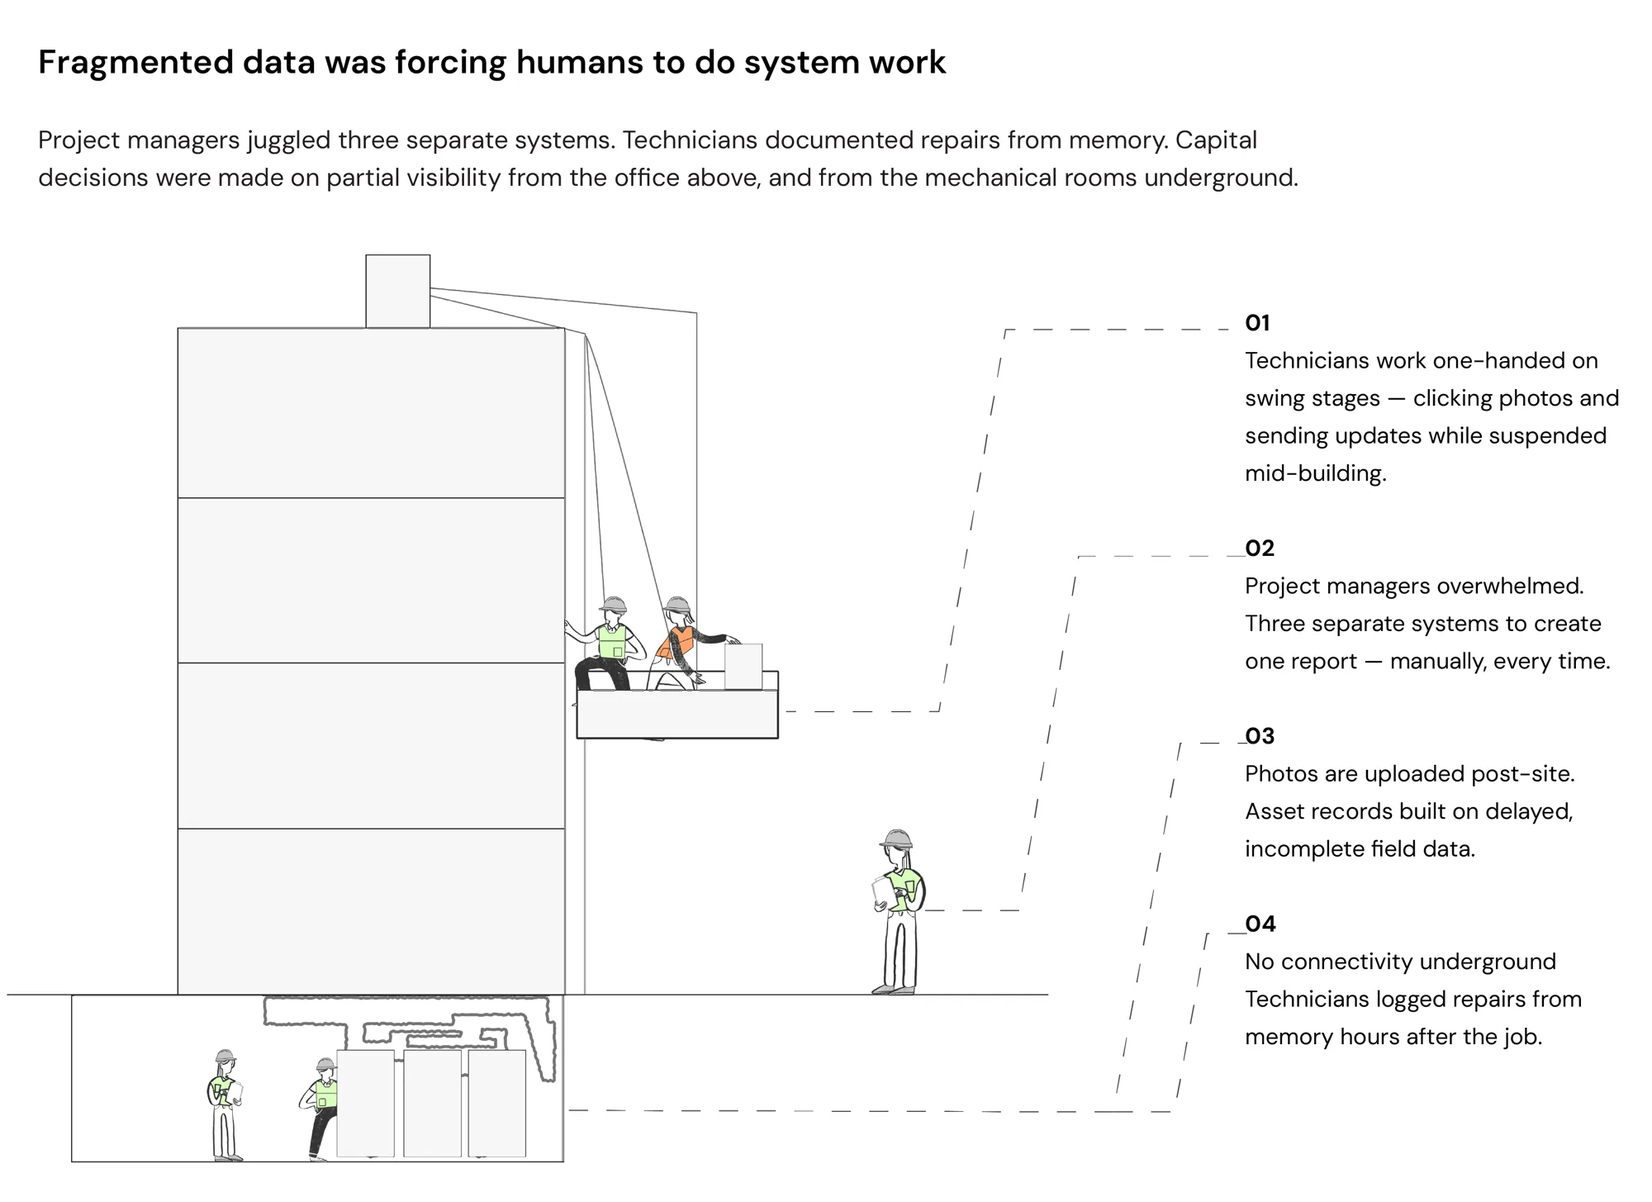
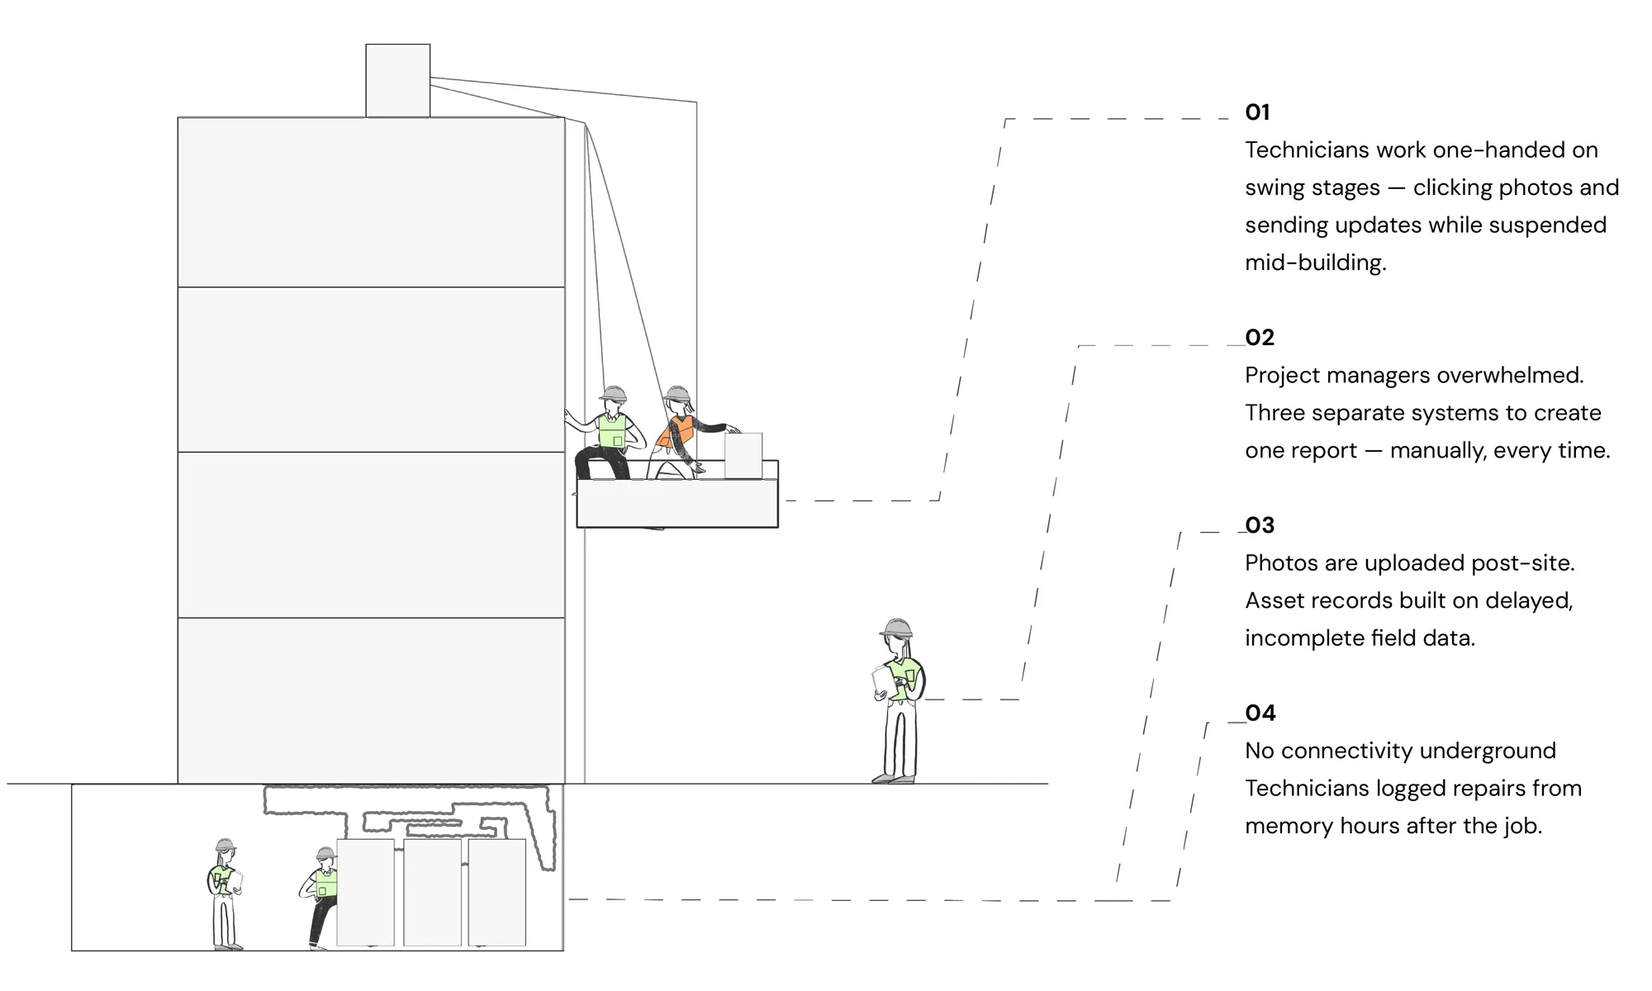
Rewrite LAT Solution narrative per review feedback, trim prose, crop duplicated-text diagram
- Reframe around "AI wasn't the product, trustworthy decision-making was": new bridge
  paragraph, Solution headline, simplified over-strategized language (trust architecture,
  system of coordination, financial intelligence, Platform Thinking)
- Cut Impact metrics from 7 to 3 hero stats; relocate the rest as supporting evidence in
  Decision 01/02 and Tradeoffs
- Replace unsupported claims ("acted immediately") with the real fact and measured
  evidence (61%->19% override rate, -12% emergency repairs) in Decision 02 and the
  LatAlertToggle component
- Give Decision 02 more visual weight with a pull-quote; restyle "Model behavior" into a
  stylized callout and tighten its copy
- Split "Also shipped" into "Supporting workflows"; trim Constraints/Tradeoffs prose
- Crop the duplicated title/body text baked into the "fragmented data" diagram image

diff --git a/app/work/[slug]/page.tsx b/app/work/[slug]/page.tsx
@@ -598,7 +598,7 @@ const caseStudies = {
   lat: {
     title: 'LAT',
     subtitle: 'Lifecycle Assessment Tracker',
-    description: 'Turning fragmented campus maintenance into a trusted financial decision system',
+    description: 'Designing an AI-assisted maintenance system people could trust with $180K decisions',
     brief: {
       context: 'Lead designer for an ML platform helping a university manage 60–80+ buildings across three campuses.',
       constraint: 'Legacy CMMS/ERP couldn\'t be disrupted, data had hard integrity boundaries, and capital decisions were political.',
@@ -618,7 +618,7 @@ const caseStudies = {
 
 <p style="margin-top: 28px;">A technician underground can't access repair history. A manager stitches spreadsheets before planning. Leadership decides on partial data.</p>
 
-<img loading="lazy" decoding="async" width="2000" height="1455" src="/images/lat/User%20Issues.webp" alt="User Issues" style="width: 100%; height: auto; border-radius: 0px; margin-top: 40px; margin-bottom: 40px; display: block;" />
+<img loading="lazy" decoding="async" width="2000" height="1200" src="/images/lat/User%20Issues.webp" alt="Diagram of fragmented maintenance data flow" style="width: 100%; height: auto; border-radius: 0px; margin-top: 40px; margin-bottom: 40px; display: block;" />
 
 <div style="display: flex; align-items: flex-start; gap: 24px; margin-top: 8px; margin-bottom: 8px; flex-wrap: wrap;">
   <div style="flex: 1; min-width: 250px; position: relative;">
@@ -645,7 +645,7 @@ const caseStudies = {
   <div style="font-size: 14px; color: #6B7280; margin-top: 10px;">vs. UW IT's 70% threshold. Data accuracy rose 70%→95% and cost reduction is projected at 25% over the same lifecycle linkage — directly observed adoption and accuracy, projected cost figure.</div>
 </div>
 
-<p><span style="font-weight: 600;">Product</span><br/>An ML platform helping a Pacific Northwest university manage 60–80+ buildings — a modular API layer alongside their legacy CMMS/ERP, turning fragmented data into financial intelligence.</p>
+<p><span style="font-weight: 600;">Product</span><br/>A maintenance platform helping a Pacific Northwest university manage 60–80+ buildings — a modular API layer alongside their legacy CMMS/ERP, turning fragmented data into decisions people could act on.</p>
 
 <p style="margin-top: 28px;"><span style="font-weight: 600;">My role.</span> Product vision, workflows, and the design system — aligning technicians, managers, accountants, and executives.</p>
 
@@ -662,8 +662,8 @@ const caseStudies = {
 
 <h4 class="case-study-subhead">Impact</h4>
 
-<div class="metrics-grid metrics-grid--dark" style="margin-bottom: 32px;">
-  <div class="metrics-cell metrics-cell--hero">
+<div class="metrics-grid metrics-grid--dark" style="margin-bottom: 20px;">
+  <div class="metrics-cell">
     <div class="metrics-num">95%</div>
     <div class="metrics-label">Pilot adoption, vs. UW IT's 70% threshold for keeping a tool live</div>
     <div style="font-family: ui-monospace, SFMono-Regular, Menlo, monospace; font-size: 10px; font-weight: 700; letter-spacing: 0.06em; text-transform: uppercase; color: #4ADE80; margin-top: 10px;">Observed</div>
@@ -678,29 +678,9 @@ const caseStudies = {
     <div class="metrics-label">Reporting time per ticket, pre/post offline-first workflow</div>
     <div style="font-family: ui-monospace, SFMono-Regular, Menlo, monospace; font-size: 10px; font-weight: 700; letter-spacing: 0.06em; text-transform: uppercase; color: #4ADE80; margin-top: 10px;">Observed</div>
   </div>
-  <div class="metrics-cell">
-    <div class="metrics-num">−36%</div>
-    <div class="metrics-label">Budget revisions vs. prior year</div>
-    <div style="font-family: ui-monospace, SFMono-Regular, Menlo, monospace; font-size: 10px; font-weight: 700; letter-spacing: 0.06em; text-transform: uppercase; color: #60A5FA; margin-top: 10px;">Measured</div>
-  </div>
-  <div class="metrics-cell">
-    <div class="metrics-num">−12%</div>
-    <div class="metrics-label">Emergency repair incidents during pilot</div>
-    <div style="font-family: ui-monospace, SFMono-Regular, Menlo, monospace; font-size: 10px; font-weight: 700; letter-spacing: 0.06em; text-transform: uppercase; color: #60A5FA; margin-top: 10px;">Measured</div>
-  </div>
-  <div class="metrics-cell">
-    <div class="metrics-num">−60%</div>
-    <div class="metrics-label">Planning time vs. prior year</div>
-    <div style="font-family: ui-monospace, SFMono-Regular, Menlo, monospace; font-size: 10px; font-weight: 700; letter-spacing: 0.06em; text-transform: uppercase; color: #60A5FA; margin-top: 10px;">Measured</div>
-  </div>
-  <div class="metrics-cell">
-    <div class="metrics-num">−25% projected</div>
-    <div class="metrics-label">Unexpected maintenance costs, lifecycle model forecast</div>
-    <div style="font-family: ui-monospace, SFMono-Regular, Menlo, monospace; font-size: 10px; font-weight: 700; letter-spacing: 0.06em; text-transform: uppercase; color: #FBBF24; margin-top: 10px;">Projected</div>
-  </div>
 </div>
 
-<p style="font-size: 14px; color: #6B7280;">Observed = measured directly from pilot usage. Measured = drawn from operational records (budget, incident, planning logs). Projected = output of the platform's own forecasting layer, held more loosely.</p>`
+<p style="font-size: 14px; color: #6B7280;">All three observed directly from pilot usage. Budget, incident, and planning impact appear in context in the sections below.</p>`
       },
       {
         id: 'context-problem',
@@ -749,10 +729,12 @@ const caseStudies = {
       {
         id: 'solution',
         title: '03 — Solution',
-        headline: 'Three decisions turned operational signals into financial intelligence',
+        headline: 'Three decisions made the system\'s intelligence trustworthy enough to act on',
         content: '',
         customComponent: (
           <div>
+            <p style={{ fontSize: '15px', color: '#44403C', maxWidth: '680px', marginBottom: '56px' }}>Research showed the problem wasn't a lack of data — it was that each role had to translate raw numbers into a decision themselves. So the system did three things: <span style={{ fontWeight: 600 }}>prioritize</span> what needed attention, <span style={{ fontWeight: 600 }}>explain</span> what a prediction meant financially, and <span style={{ fontWeight: 600 }}>verify</span> it before it reached a budget. AI wasn't the product here — trustworthy decision-making was.</p>
+
             <div style={{ marginBottom: '96px' }}>
               <div style={{ fontSize: '11px', fontWeight: 700, letterSpacing: '0.06em', textTransform: 'uppercase', color: '#A8A29E', marginBottom: '20px' }}>One data model, three surfaces</div>
               <div style={{ display: 'flex', flexDirection: 'column', gap: '0', border: '1px solid #E7E5E4' }}>
@@ -860,6 +842,7 @@ const caseStudies = {
               <p><span style={{ fontWeight: 600 }}>Problem.</span> Managers scanned 8+ graphs without acting on them.</p>
               <p style={{ marginTop: '12px' }}><span style={{ fontWeight: 600 }}>Design.</span> A ranked priority queue replaced the dashboard.</p>
               <p style={{ marginTop: '12px' }}><span style={{ fontWeight: 600 }}>Why.</span> Prioritization beat information density.</p>
+              <p style={{ marginTop: '12px', color: '#78716C' }}><span style={{ fontWeight: 600, color: '#44403C' }}>Result.</span> Planning time dropped 60% and budget revisions fell 36% vs. the prior year — managers spent that time deciding instead of reconciling.</p>
             </div>
 
             <div style={{ width: '100%', height: '400px', backgroundColor: '#E5E7EB', borderRadius: '0px', display: 'flex', alignItems: 'center', justifyContent: 'center', color: '#9CA3AF', fontSize: '14px', marginTop: '40px', marginBottom: '48px' }}>
@@ -872,18 +855,25 @@ const caseStudies = {
             <div style={{ marginBottom: '8px' }}>
               <div style={{ fontSize: '13px', fontWeight: 700, color: '#FF7C5F', letterSpacing: '0.06em', textTransform: 'uppercase', marginBottom: '8px' }}>Decision 02</div>
               <div style={{ fontSize: '20px', fontWeight: 600, color: '#1C1917', marginBottom: '16px' }}>Turn predictions into consequences</div>
+              <div className="pull-quote" style={{ marginBottom: '20px' }}>A probability isn't a decision. A consequence is.</div>
               <p>The question wasn't how confident the model was. It was what decision the manager actually needed to make.</p>
-              <p style={{ marginTop: '12px' }}>Early alerts said <span style={{ fontStyle: 'italic' }}>"Boiler failure risk: 68%"</span> — managers hesitated. We shifted to consequence framing: <span style={{ fontStyle: 'italic' }}>"9 years in service → delaying replacement may cost $18K."</span> They acted immediately.</p>
+              <p style={{ marginTop: '12px' }}>Early alerts said <span style={{ fontStyle: 'italic' }}>"Boiler failure risk: 68%"</span> — a probability, not a decision. Managers hesitated on it. We shifted to consequence framing: <span style={{ fontStyle: 'italic' }}>"9 years in service → delaying replacement may cost $18K."</span> On the boiler alert, the manager requested an inspection and approved the replacement within a day.</p>
             </div>
 
             <LatAlertToggle />
 
-            <p style={{ marginTop: '24px', marginBottom: '48px' }}><span style={{ fontWeight: 600 }}>Why.</span> The alert didn't need to prove confidence — it needed to give managers enough to decide.</p>
+            <p style={{ marginTop: '24px' }}><span style={{ fontWeight: 600 }}>Why.</span> The alert didn't need to prove confidence — it needed to give managers enough to decide: what's at stake, and what happens if they wait.</p>
 
-            <div style={{ marginBottom: '48px' }}>
-              <div style={{ fontSize: '11px', fontWeight: 700, letterSpacing: '0.06em', textTransform: 'uppercase', color: '#A8A29E', marginBottom: '16px' }}>Model behavior</div>
-              <p>LAT's model scores each asset for replacement risk from maintenance history, asset age, and inspection records, then routes that score into one of three confidence tiers — Critical, Monitor, Safe — rather than exposing a raw probability. Every manager override (accept, reject, or request verification) is logged and fed back in, so the score recalibrates against real-world outcomes instead of staying static after deployment.</p>
-              <p style={{ marginTop: '16px' }}>The design decision wasn't the scoring itself — it was choosing what the model was allowed to withhold. A model that's wrong with full confidence is more dangerous than one that's uncertain and says so, which is why every Critical alert ships with its top risk drivers visible and requires a human decision before it affects a budget.</p>
+            <p style={{ marginTop: '12px', marginBottom: '48px', color: '#78716C' }}><span style={{ fontWeight: 600, color: '#44403C' }}>Result.</span> Override rate fell from 61% to 19% as consequence framing rolled out, and emergency repair incidents dropped 12% during the pilot — managers weren't just agreeing with the model more, they were catching problems earlier.</p>
+
+            <div style={{ backgroundColor: '#FFF9F5', padding: '24px', borderRadius: '0px', borderLeft: '3px solid #FF7C5F', marginBottom: '48px' }}>
+              <div className="cs-card-title cs-card-title--sm">Model behavior</div>
+              <p style={{ fontSize: '15px', color: '#57534E', lineHeight: 1.7, margin: 0 }}>
+                Each asset gets a risk score from maintenance history, age, and inspections, routed into <span style={{ fontWeight: 600 }}>Critical / Monitor / Safe</span> — never a raw probability. Every override is logged and fed back in, so the score recalibrates against real outcomes.
+              </p>
+              <p style={{ fontSize: '15px', color: '#57534E', lineHeight: 1.7, marginTop: '12px', marginBottom: 0 }}>
+                <span style={{ fontWeight: 600 }}>The real design decision:</span> what the model was allowed to withhold. A confident wrong answer is worse than an uncertain one — so Critical alerts always show their risk drivers and need a human decision before touching a budget.
+              </p>
             </div>
 
             <div style={{ marginBottom: '8px' }}>
@@ -919,7 +909,8 @@ const caseStudies = {
             </div>
 
             <div style={{ borderTop: '1px solid #E5E7EB', paddingTop: '32px' }}>
-              <div style={{ fontSize: '13px', fontWeight: 700, color: '#9CA3AF', letterSpacing: '0.06em', textTransform: 'uppercase', marginBottom: '20px' }}>Also shipped</div>
+              <div style={{ fontSize: '13px', fontWeight: 700, color: '#9CA3AF', letterSpacing: '0.06em', textTransform: 'uppercase', marginBottom: '4px' }}>Supporting workflows</div>
+              <p style={{ fontSize: '14px', color: '#78716C', marginBottom: '20px' }}>Outside the core prioritize → explain → verify loop, two more workflows fed the same data model.</p>
 
               <div style={{ marginBottom: '24px' }}>
                 <p><span style={{ fontWeight: 600 }}>Offline field reporting.</span> Work Orders, Asset DNA, and Cost-to-Date linked automatically — an offline queue with voice capture and auto-sync cut reporting time from 20 to 8 minutes.</p>
@@ -949,7 +940,7 @@ const caseStudies = {
       {
         id: 'turning-point',
         title: '04 — The Turning Point',
-        headline: 'Research revealed we were redesigning a system of coordination',
+        headline: 'We weren\'t designing another dashboard — we were connecting decisions that used to happen in isolation',
         content: `<div class="cs-video-wrap" style="width: 100%; max-width: 1200px; margin: 0 auto 48px;">
   <video autoplay loop muted playsinline preload="metadata" width="1882" height="1046" aria-label="Role-based dashboard surfaces over a shared data foundation" style="display: block; width: 100%; height: auto; border-radius: 0px;">
     <source src="/videos/lat/Flow%2002.mp4" type="video/mp4">
@@ -958,7 +949,7 @@ const caseStudies = {
   <button type="button" class="cs-video-toggle" aria-label="Pause video" onclick="var v=this.previousElementSibling;if(v.paused){v.play();this.textContent='⏸';this.setAttribute('aria-label','Pause video');}else{v.pause();this.textContent='▶';this.setAttribute('aria-label','Play video');}">⏸</button>
 </div>
 
-<p>We thought we were customizing a product. Research showed we were redesigning <span style="font-weight: 600;">a system of coordination</span> — everyone had data, what they lacked was context and trust.</p>
+<p>We thought we were customizing a product. Research showed each role was making decisions in isolation, off the same data — what was missing wasn't data, it was shared context and trust.</p>
 
 <p style="margin-top: 28px;">So instead of one dashboard for everyone, we built role-based surfaces over a shared foundation, surfacing only what was actionable.</p>
 
@@ -976,7 +967,7 @@ const caseStudies = {
 
   <div>
     <div class="cs-card-title">Data Integrity Had Hard Boundaries</div>
-    <div style="font-size: 15px; color: #57534E; line-height: 1.6;">Strict governance meant inherited, duplicated records — source of the project's defining incident (section 03). Validation states and confidence tiers became the trust architecture.</div>
+    <div style="font-size: 15px; color: #57534E; line-height: 1.6;">Strict governance meant inherited, duplicated records — the source of the boiler incident (Decision 03). Validation states and confidence tiers became how managers learned to trust the score.</div>
   </div>
 
   <div>
@@ -1021,17 +1012,17 @@ const caseStudies = {
 <div style="display: grid; grid-template-columns: 1fr; gap: 28px; margin-top: 24px; margin-bottom: 24px;">
   <div>
     <div class="cs-card-title">Tokens for two environments</div>
-    <div style="font-size: 15px; color: #57534E; line-height: 1.6;">The same component library had to hold up on a phone screen in direct sunlight underground and on a dense desktop dashboard reviewed indoors. Technician mobile ran on a high-contrast token set — larger type, fewer colors, status carried by shape as well as color. Manager and executive surfaces used a denser, lower-contrast set built for longer indoor sessions.</div>
+    <div style="font-size: 15px; color: #57534E; line-height: 1.6;">The same component library had to work on a phone in direct sunlight underground and a dense desktop dashboard indoors. Technician mobile got a high-contrast, larger-type token set; manager and executive surfaces used a denser set built for longer indoor sessions.</div>
   </div>
 
   <div>
     <div class="cs-card-title">Reusable edge-case patterns</div>
-    <div style="font-size: 15px; color: #57534E; line-height: 1.6;">Four patterns recurred across every surface rather than being designed once each: an offline-status banner (queued / syncing / failed), a sync-conflict resolution state for records edited in two places at once, the confidence/risk tier badge (Critical / Monitor / Safe) from the alert system, and the human-override dialog — visible reasoning, mandatory comment, logged decision — that shipped after the boiler incident.</div>
+    <div style="font-size: 15px; color: #57534E; line-height: 1.6;">Four patterns recurred across every surface instead of being built once each: an offline-status banner, a sync-conflict resolution state, the Critical/Monitor/Safe risk badge, and the human-override dialog — visible reasoning, mandatory comment, logged decision — that shipped after the boiler incident.</div>
   </div>
 
   <div>
     <div class="cs-card-title">Engineering handoff</div>
-    <div style="font-size: 15px; color: #57534E; line-height: 1.6;">Each component shipped with its states spec'd against what the API actually returned — loading, stale-while-revalidating, offline-queued, and error — not just the happy path. Expected loading latencies were set with the two external engineers so slow states got real skeleton treatments instead of spinners bolted on after the fact.</div>
+    <div style="font-size: 15px; color: #57534E; line-height: 1.6;">Each component shipped with its states spec'd against what the API actually returned — loading, stale-while-revalidating, offline-queued, error — not just the happy path. Latencies were set with the engineers so slow states got real skeletons, not spinners bolted on after.</div>
   </div>
 </div>`
       },
@@ -1042,18 +1033,18 @@ const caseStudies = {
         content: '',
         customComponent: (
           <div>
-            <p>Every feature mapped to one driver: <span style={{ fontWeight: 600 }}>cost reduction, planning accuracy, or adoption velocity.</span> Offline workflows and data integrity came before expanding AI scope — these three tradeoffs are where that showed up most.</p>
+            <p>Every feature mapped to one driver: <span style={{ fontWeight: 600 }}>cost, planning accuracy, or adoption.</span> Offline workflows and data integrity came before expanding AI scope — these three tradeoffs show where.</p>
 
             <LatTradeoffTable />
 
             <div style={{ backgroundColor: '#FFF9F5', padding: '28px', borderRadius: '0px', borderLeft: '3px solid #FF7C5F', marginTop: '8px', marginBottom: '24px' }}>
               <div className="cs-card-title cs-card-title--md">What we didn't build</div>
-              <div style={{ fontSize: '15px', color: '#57534E', lineHeight: 1.7 }}>AI auto-scheduling, ESG modeling, and digital twins were all requested and all cut. Twelve months forced one north star — decision confidence — and two drivers, cost and adoption. Anything that didn't serve those lost the argument, however compelling on its own.</div>
+              <div style={{ fontSize: '15px', color: '#57534E', lineHeight: 1.7 }}>AI auto-scheduling, ESG modeling, and digital twins were all requested and all cut. Twelve months forced one north star — decision confidence — and two drivers, cost and adoption.</div>
             </div>
 
             <div style={{ backgroundColor: '#FFF9F5', padding: '28px', borderRadius: '0px', borderLeft: '3px solid #FF7C5F', marginTop: '8px', marginBottom: '40px' }}>
-              <div className="cs-card-title cs-card-title--md">Platform Thinking</div>
-              <div style={{ fontSize: '15px', color: '#57534E', lineHeight: 1.7 }}>The predictive engine improves as override data accumulates — LAT compounds intelligence through use.</div>
+              <div className="cs-card-title cs-card-title--md">The model keeps learning</div>
+              <div style={{ fontSize: '15px', color: '#57534E', lineHeight: 1.7 }}>Every override gets logged and fed back in, so the model recalibrates against real outcomes instead of staying static. The resulting lifecycle forecast projects a 25% reduction in unexpected maintenance costs.</div>
             </div>
 
             <img loading="lazy" decoding="async" width={2000} height={1455} src="/images/lat/AB%20Testing.webp" alt="AB Testing comparison" style={{ width: '100%', height: 'auto', borderRadius: '0px', marginTop: '8px', marginBottom: '40px', display: 'block' }} />
@@ -1089,7 +1080,7 @@ const caseStudies = {
 
 <p style="margin-top: 28px;"><span style="font-weight: 600;">What mattered more.</span> The lifecycle linkage, not the AI. Once work orders, asset history, and cost were reliably connected, decisions improved before the predictive layer even matured.</p>
 
-<p style="margin-top: 28px;"><span style="font-weight: 600;">What I learned about AI in enterprise.</span> Adoption depends less on model sophistication than on trust architecture. Design for the failure, not the demo.</p>`
+<p style="margin-top: 28px;"><span style="font-weight: 600;">What I learned about AI in enterprise.</span> Adoption depends less on model sophistication than on whether people can see why it's wrong when it is. Design for the failure, not the demo.</p>`
       },
     ]
   },

diff --git a/components/LatAlertToggle.tsx b/components/LatAlertToggle.tsx
@@ -128,7 +128,7 @@ export default function LatAlertToggle() {
           padding: '8px 16px',
           borderRadius: '999px',
         }}>
-          Manager response: hesitated &rarr; acted immediately
+          Manager response: requested inspection &rarr; approved replacement in 1 day
         </div>
       </div>
 
